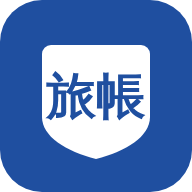
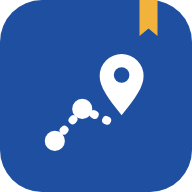
feat: アプリ名を「たび帳」にし、シリーズ共通の型のアイコンに変える
- 画面・共有ファイル・マニフェストの名前を「たび帳」にする（保存データの形式名は変えない）
- アイコンを、色の地に白い記号と黄色い栞を置く型にする。iPhone 用とマスク用は角を丸めない版を作る
- アイコンの作り方を design/ に置く

Claude-Session: https://claude.ai/code/session_01La99k3BRucbLeuPecxzZfv

Changed region(s): [[0.2188, 0.2188, 0.7812, 0.8438], [0.7188, 0.0, 0.8438, 0.1875]]

diff --git a/src/main.ts b/src/main.ts
@@ -135,8 +135,8 @@ async function shareSheet(current: Trip): Promise<void> {
     SHARE_ITEMS.map(([k, label, note]) => '<label class="setting-row" style="cursor:pointer"><span class="grow">' + esc(label) + (note ? '<br><span class="sub">' + esc(note) + '</span>' : '') + '</span><input type="checkbox" data-sh="' + k + '"' + (opt[k] ? ' checked' : '') + ' style="width:24px;height:24px;accent-color:var(--road)"></label>').join('') +
     '<div style="display:flex;flex-direction:column;gap:8px;margin-top:12px">' +
     '<button class="btn primary" type="button" data-sh-make="png">まとめ画像を作る</button><p class="sub" style="margin:0">地図・行程・写真（4枚まで）を縦長の画像1枚に。LINE やインスタにそのまま送れます</p>' +
-    '<button class="btn" type="button" data-sh-make="html">見るだけのページを作る</button><p class="sub" style="margin:0">HTML ファイル1つ。旅帳を持っていない人も、受け取ってタップすれば見られます</p>' +
-    '<button class="btn" type="button" data-sh-make="zip">旅帳で開けるファイルを作る</button><p class="sub" style="margin:0">受け取った人の旅帳に「もらった旅」として入ります。見るだけで、もとに自分の旅を作れます</p>' +
+    '<button class="btn" type="button" data-sh-make="html">見るだけのページを作る</button><p class="sub" style="margin:0">HTML ファイル1つ。たび帳を持っていない人も、受け取ってタップすれば見られます</p>' +
+    '<button class="btn" type="button" data-sh-make="zip">たび帳で開けるファイルを作る</button><p class="sub" style="margin:0">受け取った人のたび帳に「もらった旅」として入ります。見るだけで、もとに自分の旅を作れます</p>' +
     '<button class="btn" type="button" data-close>やめる</button></div></form>');
   document.querySelectorAll<HTMLButtonElement>('[data-sh-make]').forEach((b) => b.addEventListener('click', async () => {
     document.querySelectorAll<HTMLInputElement>('[data-sh]').forEach((i) => { (opt as unknown as Record<string, boolean>)[i.dataset.sh!] = i.checked; });
@@ -238,10 +238,10 @@ async function loadSample(): Promise<void> {
 // ---------- はじめての画面 ----------
 function onboarding(): void {
   document.body.classList.add('no-tabs');
-  $('#trip-name')!.textContent = '旅帳';
+  $('#trip-name')!.textContent = 'たび帳';
   $('#status')!.textContent = '長い旅の行程・予約・お金・やりたいこと・日記を、地図と一緒に';
   $('#view')!.innerHTML = '<section class="card onboard"><h2>旅を作りましょう</h2>' +
-    '<p style="margin:0">旅帳は、日本一周のような長い旅を管理するアプリです。データはこの端末の中だけに保存され、どこにも送られません。</p>' +
+    '<p style="margin:0">たび帳は、日本一周のような長い旅を管理するアプリです。データはこの端末の中だけに保存され、どこにも送られません。</p>' +
     '<form id="ob-form" style="display:flex;flex-direction:column;gap:12px">' +
     '<label class="f">旅の名前<input class="i" id="ob-name" required placeholder="例: 日本一周 2027" value="日本一周"></label>' +
     '<label class="f">出発日<input class="i" id="ob-start" type="date" required value="' + todayIso() + '"></label>' +
@@ -321,7 +321,7 @@ async function settings(current: Trip): Promise<void> {
 }
 
 // ---------- 起動 ----------
-// 旅帳を2つの画面（タブ）で同時に開いていると、片方の変更をもう片方が知らずに上書きしてしまう。
+// たび帳を2つの画面（タブ）で同時に開いていると、片方の変更をもう片方が知らずに上書きしてしまう。
 // 同じ端末のほかの画面と声をかけ合い、見つけたら注意を出す
 function watchOtherTabs(): void {
   if (!('BroadcastChannel' in window)) return;
@@ -329,7 +329,7 @@ function watchOtherTabs(): void {
   const warn = () => {
     if ($('#tab-warning')) return;
     const b = document.createElement('div'); b.id = 'tab-warning'; b.className = 'banner export-banner'; b.setAttribute('role', 'alert');
-    b.textContent = '旅帳が別の画面（タブやホーム画面のアプリ）でも開いています。両方で書き換えると、片方の変更が消えることがあります。使わない方を閉じてください';
+    b.textContent = 'たび帳が別の画面（タブやホーム画面のアプリ）でも開いています。両方で書き換えると、片方の変更が消えることがあります。使わない方を閉じてください';
     $('#view')!.before(b);
   };
   ch.onmessage = (e) => { const m = e.data || {}; if (m.from === me) return; if (m.type === 'hello') ch.postMessage({ type: 'here', from: me }); if (m.type === 'hello' || m.type === 'here') warn(); };

diff --git a/src/share.ts b/src/share.ts
@@ -1,7 +1,7 @@
 // 旅の記録を人に見せるための共有。
 // 見せる項目を選んで、2つの形で書き出す。
-//   1. 見るだけのページ（HTML ファイル1つ。旅帳がなくても開ける）
-//   2. 旅帳で開ける zip（受け取った側では「もらった旅」として見るだけになる）
+//   1. 見るだけのページ（HTML ファイル1つ。たび帳がなくても開ける）
+//   2. たび帳で開ける zip（受け取った側では「もらった旅」として見るだけになる）
 // メモ・予約番号など、共有に向かないものは選べないようにして、最初から入れない。
 import JSZip from 'jszip';
 import { newId, type Data, type DocRecord, type Store } from './store';
@@ -35,7 +35,7 @@ export interface ShareBuild {
   name: string;
 }
 
-/** 共有用のデータを作る。旅帳で開ける形（DocRecord）で返す */
+/** 共有用のデータを作る。たび帳で開ける形（DocRecord）で返す */
 export function buildShare(store: Store, tid: string, opt: ShareOptions): ShareBuild {
   const src = 'trips/' + tid + '/';
   const newTid = 's' + newId();
@@ -112,7 +112,7 @@ export function buildShare(store: Store, tid: string, opt: ShareOptions): ShareB
   return { records, photoIds, tripId: newTid, name };
 }
 
-/** 旅帳で開ける zip */
+/** たび帳で開ける zip */
 export async function shareZip(store: Store, b: ShareBuild): Promise<Blob> {
   const zip = new JSZip();
   zip.file('data.json', JSON.stringify({ format: 'tabicho-backup', version: 1, exportedAt: new Date().toISOString(), shared: true, records: b.records }));
@@ -201,7 +201,7 @@ function renderViewer(D: ViewData, G: Record<string, string>): string {
     h += '<section class="card"><h2>お金</h2><div class="row"><span>使った額</span><b>' + yen(all) + '</b></div>' + Object.keys(sum).map((k) => '<div class="row"><span>' + esc(k) + '</span><span>' + yen(sum[k]) + '</span></div><div class="bar"><b style="width:' + (all ? (sum[k] / all * 100).toFixed(1) : 0) + '%"></b></div>').join('') + '</section>';
   }
   if (D.bookings.length) h += '<section class="card"><h2>移動・見学</h2>' + D.bookings.map((b) => '<div class="row"><span>' + esc(b.title) + '</span><span class="sub">' + esc(b.kind) + '</span></div>').join('') + '</section>';
-  h += '<footer>この旅は <a href="' + esc(D.appUrl) + '">旅帳</a> でまとめました' + (Object.keys(G).length ? '<br>地図: 地球地図日本（国土地理院）を加工' : '') + '</footer>';
+  h += '<footer>この旅は <a href="' + esc(D.appUrl) + '">たび帳</a> でまとめました' + (Object.keys(G).length ? '<br>地図: 地球地図日本（国土地理院）を加工' : '') + '</footer>';
   return h;
 }
 
@@ -211,7 +211,7 @@ const VIEWER = `<!doctype html>
 <head>
 <meta charset="utf-8">
 <meta name="viewport" content="width=device-width,initial-scale=1,viewport-fit=cover">
-<title>__TITLE__ - 旅帳</title>
+<title>__TITLE__ - たび帳</title>
 <style>
 :root{color-scheme:light}
 *{box-sizing:border-box}
@@ -287,7 +287,7 @@ export async function shareImage(store: Store, b: ShareBuild, geo: Record<string
   g.fillStyle = C.bg; g.fillRect(0, 0, W, H);
 
   // 見出し
-  font(26, 700); g.fillStyle = C.gold; g.fillText('旅帳  TRAVEL LOG', P, 118);
+  font(26, 700); g.fillStyle = C.gold; g.fillText('たび帳  TRAVEL LOG', P, 118);
   let size = 76; font(size, 800); while (size > 44 && g.measureText(b.name).width > W - P * 2) { size -= 4; font(size, 800); }
   g.fillStyle = C.ink; g.fillText(fitText(b.name, W - P * 2), P, 210);
   const fmt = (d: Date) => d.getFullYear() + '.' + (d.getMonth() + 1) + '.' + d.getDate();
@@ -378,6 +378,6 @@ export async function shareImage(store: Store, b: ShareBuild, geo: Record<string
       g.drawImage(im, (im.width - sw) / 2, (im.height - sh) / 2, sw, sh, x, y, cell, ch); g.restore(); im.close();
     });
   }
-  font(24, 400); g.fillStyle = C.muted; g.fillText('旅帳でまとめました　' + appUrl.replace(/^https?:\/\//, '').replace(/\/$/, ''), P, H - 56);
+  font(24, 400); g.fillStyle = C.muted; g.fillText('たび帳でまとめました　' + appUrl.replace(/^https?:\/\//, '').replace(/\/$/, ''), P, H - 56);
   return await new Promise<Blob>((ok, ng) => cv.toBlob((bl) => (bl ? ok(bl) : ng(new Error('画像を作れませんでした'))), 'image/png'));
 }

diff --git a/src/backup.ts b/src/backup.ts
@@ -69,14 +69,14 @@ export async function importZip(store: Store, file: Blob): Promise<ImportResult>
   let docs = 0;
   if (dataFile) {
     const parsed = JSON.parse(await dataFile.async('string')) as { format?: string; version?: number; records?: DocRecord[] };
-    if (parsed.format !== FORMAT || !Array.isArray(parsed.records)) throw new Error('旅帳の書き出しファイルではありません');
+    if (parsed.format !== FORMAT || !Array.isArray(parsed.records)) throw new Error('たび帳の書き出しファイルではありません');
     valid = parsed.records.filter((r) => r && typeof r.path === 'string' && typeof r.updatedAt === 'number');
     docs = await store.merge(valid);
   } else if (partFile) {
     // 写真だけのファイル（分けて書き出したものの2つ目以降）
     const part = JSON.parse(await partFile.async('string')) as { format?: string };
-    if (part.format !== PHOTO_PART) throw new Error('旅帳の書き出しファイルではありません');
-  } else throw new Error('旅帳の書き出しファイルではありません');
+    if (part.format !== PHOTO_PART) throw new Error('たび帳の書き出しファイルではありません');
+  } else throw new Error('たび帳の書き出しファイルではありません');
   let photos = 0;
   const have = new Set(await store.allPhotoIds());
   const files = zip.folder('photos')?.file(/\.jpg$/) || [];

diff --git a/vite.config.ts b/vite.config.ts
@@ -7,10 +7,10 @@ export default defineConfig({
   plugins: [
     VitePWA({
       registerType: 'autoUpdate',
-      includeAssets: ['icon.svg', 'icon-192.png', 'icon-512.png', 'japan.json', 'sample-trip.zip'],
+      includeAssets: ['icon.svg', 'icon-192.png', 'icon-512.png', 'maskable-512.png', 'apple-touch-icon.png', 'japan.json', 'sample-trip.zip'],
       manifest: {
-        name: '旅帳',
-        short_name: '旅帳',
+        name: 'たび帳',
+        short_name: 'たび帳',
         description: '長い旅の行程・予約・お金・やりたいこと・日記を、地図と一緒に管理するアプリ',
         lang: 'ja',
         start_url: '/tabicho/',
@@ -21,7 +21,7 @@ export default defineConfig({
         icons: [
           { src: 'icon-192.png', sizes: '192x192', type: 'image/png' },
           { src: 'icon-512.png', sizes: '512x512', type: 'image/png' },
-          { src: 'icon-512.png', sizes: '512x512', type: 'image/png', purpose: 'maskable' }
+          { src: 'maskable-512.png', sizes: '512x512', type: 'image/png', purpose: 'maskable' }
         ]
       },
       workbox: { globPatterns: ['**/*.{js,css,html,json,svg,png,zip}'] }

diff --git a/index.html b/index.html
@@ -5,9 +5,9 @@
 <meta name="viewport" content="width=device-width,initial-scale=1,viewport-fit=cover">
 <meta name="theme-color" content="#1F4FA0">
 <meta name="description" content="長い旅の行程・予約・お金・やりたいこと・日記を、地図と一緒に管理するアプリ">
-<title>旅帳</title>
+<title>たび帳</title>
 <link rel="icon" href="icon.svg" type="image/svg+xml">
-<link rel="apple-touch-icon" href="icon-192.png">
+<link rel="apple-touch-icon" href="apple-touch-icon.png">
 <link rel="preconnect" href="https://fonts.googleapis.com">
 <link rel="stylesheet" href="https://fonts.googleapis.com/css2?family=Zen+Kaku+Gothic+New:wght@400;500;700;900&family=Inter:wght@400;600;700&display=swap">
 </head>
@@ -15,9 +15,9 @@
 <div class="app">
   <header class="top"><div class="top-in">
     <div class="brand">
-      <div class="shield" aria-hidden="true">旅帳</div>
+      <img class="shield" src="icon.svg" alt="" width="34" height="34">
       <div style="min-width:0">
-        <h1 id="trip-name">旅帳</h1>
+        <h1 id="trip-name">たび帳</h1>
         <p id="status">読み込み中</p>
       </div>
     </div>

diff --git a/tests/backup.test.ts b/tests/backup.test.ts
@@ -63,10 +63,10 @@ describe('書き出しと読み込み', () => {
     expect(Object.keys(zip.files).some((f) => f.endsWith('.jpg'))).toBe(false);
   });
 
-  it('旅帳のファイルでなければ読み込まない', async () => {
+  it('たび帳のファイルでなければ読み込まない', async () => {
     const s = await freshStore();
     const z = new JSZip(); z.file('data.json', JSON.stringify({ format: 'other', records: [] }));
-    await expect(importZip(s, await z.generateAsync({ type: 'blob' }))).rejects.toThrow('旅帳の書き出しファイルではありません');
+    await expect(importZip(s, await z.generateAsync({ type: 'blob' }))).rejects.toThrow('たび帳の書き出しファイルではありません');
     const empty = new JSZip(); empty.file('readme.txt', 'x');
     await expect(importZip(s, await empty.generateAsync({ type: 'blob' }))).rejects.toThrow();
   });

diff --git a/src/style.css b/src/style.css
@@ -38,7 +38,7 @@ button{cursor:pointer}
   padding-block:10px;padding-left:max(16px,env(safe-area-inset-left,0px));padding-right:max(16px,env(safe-area-inset-right,0px))}
 .top-in{max-width:960px;margin:0 auto;display:flex;align-items:center;gap:12px}
 .brand{display:flex;align-items:center;gap:10px;min-width:0;flex:1}
-.shield{flex-shrink:0;width:34px;height:34px;border-radius:9px 9px 14px 14px;background:var(--road);color:var(--road-ink);display:grid;place-items:center;font-weight:900;font-size:13px;letter-spacing:.02em}
+.shield{flex-shrink:0;width:34px;height:34px;display:block}
 .brand h1{margin:0;font-size:17px;font-weight:900;line-height:1.2}
 .brand p{margin:0;font-size:12.5px;color:var(--muted);white-space:nowrap;overflow:hidden;text-overflow:ellipsis}
 

diff --git a/tests/share.test.ts b/tests/share.test.ts
@@ -50,7 +50,7 @@ describe('旅の記録の共有', () => {
     expect(b.photoIds).toEqual([]);
   });
 
-  it('旅帳で開けるファイルは、受け取った側で「もらった旅」になる', async () => {
+  it('たび帳で開けるファイルは、受け取った側で「もらった旅」になる', async () => {
     const s = await freshStore();
     await makeTrip(s, 't1', { photos: ['p1'] });
     const b = buildShare(s, 't1', DEFAULT_SHARE);

diff --git a/src/app.js b/src/app.js
@@ -1,5 +1,5 @@
 
-// 画面の本体。アーティファクト版の旅帳から移したもの。
+// 画面の本体。アーティファクト版のたび帳から移したもの。
 // データは ctx.db（端末内のストア）と ctx.assets（写真）を通して読み書きする。
 import { PX, PY, FULL, routeBox } from './geo';
 

diff --git a/design/make-icons.py b/design/make-icons.py
@@ -1,0 +1,40 @@
+# アイコンの下書きを作る。3つのアプリ × 2つの型（手帳型・記号だけ）
+COL = {'plan': '#1F4FA0', 'road': '#1F7470', 'fish': '#C2581B'}
+RIBBON = '#F2B33D'
+
+def plan(c, ink):  # 旅の計画: 点線のルートと、最後にピン
+    return (f'<polyline points="168,356 228,286 296,318" fill="none" stroke="{ink}" stroke-width="18" stroke-linecap="round" stroke-dasharray="2 28"/>'
+            f'<circle cx="168" cy="356" r="22" fill="{ink}"/><circle cx="228" cy="286" r="22" fill="{ink}"/>'
+            f'<path d="M314 300 C284 262 266 238 266 214 a48 48 0 0 1 96 0 c0 24-18 48-48 86z" fill="{ink}"/>'
+            f'<circle cx="314" cy="212" r="17" fill="{c}"/>')
+
+def road(c, ink):  # 道の記録: 曲がった道と中央線
+    d = 'M200 384 C200 322 312 326 312 262 C312 204 214 204 214 148'
+    return (f'<path d="{d}" fill="none" stroke="{ink}" stroke-width="52" stroke-linecap="round"/>'
+            f'<path d="{d}" fill="none" stroke="{c}" stroke-width="9" stroke-linecap="round" stroke-dasharray="20 22"/>')
+
+def fish(c, ink):  # 釣り: 魚
+    return (f'<path d="M150 268 C190 200 288 196 330 268 C288 340 190 336 150 268 Z" fill="{ink}"/>'
+            f'<path d="M318 268 L374 222 L362 268 L374 314 Z" fill="{ink}"/>'
+            f'<circle cx="196" cy="256" r="13" fill="{c}"/>')
+
+SYM = {'plan': plan, 'road': road, 'fish': fish}
+
+def notebook(key):  # 手帳型: 色の地に白い手帳、その中に記号。上に栞
+    c = COL[key]
+    return (f'<svg xmlns="http://www.w3.org/2000/svg" viewBox="0 0 512 512">'
+            f'<rect width="512" height="512" rx="112" fill="{c}"/>'
+            f'<rect x="120" y="88" width="272" height="336" rx="34" fill="#fff"/>'
+            f'<path d="M332 70 h40 v104 l-20 -18 l-20 18 z" fill="{RIBBON}"/>'
+            f'<g>{SYM[key](c, c)}</g></svg>')
+
+def symbol(key):  # 記号だけ: 色の地に白い記号を大きく。右上に栞
+    c = COL[key]
+    return (f'<svg xmlns="http://www.w3.org/2000/svg" viewBox="0 0 512 512">'
+            f'<rect width="512" height="512" rx="112" fill="{c}"/>'
+            f'<path d="M372 0 h48 v96 l-24 -20 l-24 20 z" fill="{RIBBON}"/>'
+            f'<g transform="translate(256 266) scale(1.22) translate(-258 -266)">{SYM[key](c, "#fff")}</g></svg>')
+
+for k in COL:
+    open(f'{k}-notebook.svg', 'w').write(notebook(k))
+    open(f'{k}-symbol.svg', 'w').write(symbol(k))

diff --git a/README.md b/README.md
@@ -1,4 +1,4 @@
-# 旅帳（tabicho）
+# たび帳（tabicho）
 
 日本一周のような長い旅の、行程・予約・お金・やりたいこと・日記を、地図と一緒に管理する Web アプリです。
 
@@ -24,7 +24,7 @@ npm test         # 自動テスト（vitest）
 - `src/store.ts`: 端末内の保存（IndexedDB）。消したデータも「消した印」を付けて残す（読み込んだファイルで、消したものが生き返らないようにするため）
 - `src/photos.ts`: 写真の縮小と保存
 - `src/backup.ts`: zip の書き出し・読み込み（100MB ごとに分ける）
-- `src/share.ts`: 旅の記録を人に見せる共有（まとめ画像・見るだけのページ・旅帳で開けるファイル）
+- `src/share.ts`: 旅の記録を人に見せる共有（まとめ画像・見るだけのページ・たび帳で開けるファイル）
 - `src/geo.ts`: 地図の座標の計算（ルートに合わせた表示範囲、共有での座標の丸め）
 - `scripts/make-sample.mjs`: サンプルの旅（`public/sample-trip.zip`）を作る
 - `tests/`: 自動テスト。IndexedDB は fake-indexeddb で置き換えて動かす

diff --git a/design/README.md b/design/README.md
@@ -1,0 +1,6 @@
+# アイコン
+
+- シリーズ（たび帳・みち帳）で同じ型にする。色の地に白い記号を大きく置き、右上の黄色い栞をシリーズの印にする
+- `make-icons.py` で SVG を作る（`python3 make-icons.py`）。たび帳は `plan-symbol.svg` を `public/icon.svg` に使う
+- PNG（`public/icon-192.png`・`icon-512.png`・`maskable-512.png`・`apple-touch-icon.png`）は SVG をブラウザで描いて書き出した
+  - `apple-touch-icon.png` と `maskable-512.png` は角を丸めない（端末が丸める）。マスク用は記号を少し小さくして、中央80%に収める
